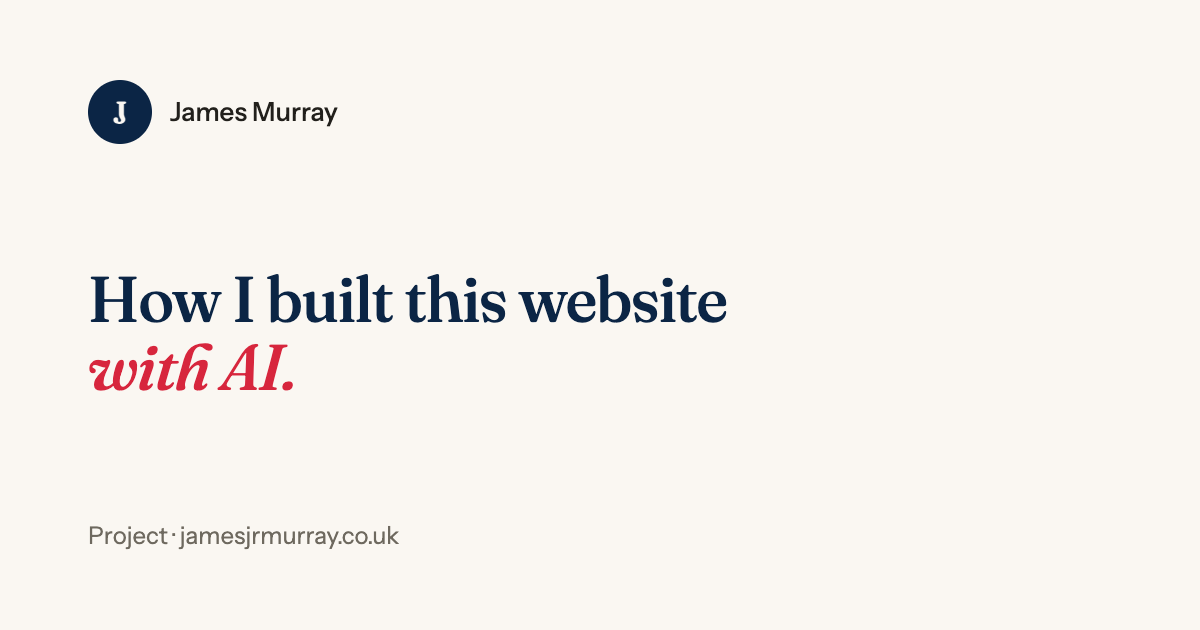
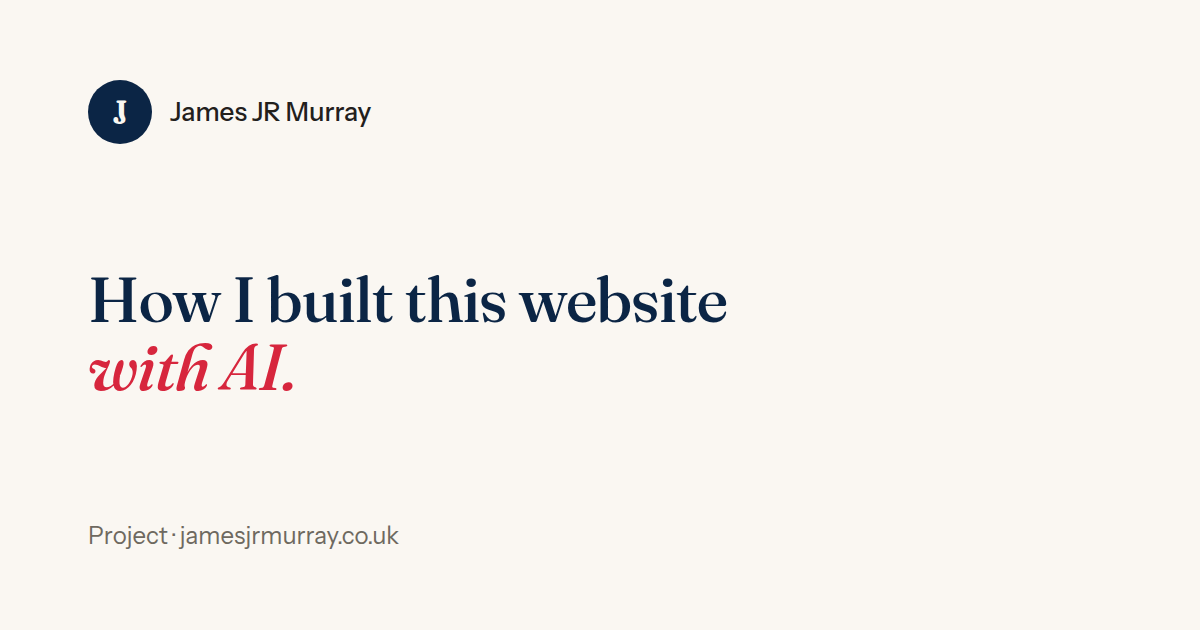
Add email contact, Speaking nav, and the Lead Product Manager name.
Pair a mailto link with each LinkedIn contact, point the main nav at the talks section as Speaking, and use James JR Murray plus Lead Product Manager in the hero, titles, and structured data.

diff --git a/src/content/site.ts b/src/content/site.ts
@@ -2,6 +2,28 @@ import type { Post, Project, Role, Stat, Talk, WorkItem } from './types';
 
 export const github = 'https://github.com/jamesjrmurray';
 
+// Full name in the hero, titles and structured data, so this James is not confused with another.
+export const name = 'James JR Murray';
+export const jobTitle = 'Lead Product Manager';
+export const emailAddress = 'jamesjrmurray@gmail.com';
+
+export const mailSubjects = {
+  speaking: 'Speaking enquiry',
+  role: 'Role enquiry',
+  general: 'General enquiry',
+} as const;
+
+export function mailto(subject: string): string {
+  return `mailto:${emailAddress}?subject=${encodeURIComponent(subject)}`;
+}
+
+// Public pages about this James: the Recruited article (Oct 2025, bylined Senior Product Owner
+// at Toyota Connected Europe) and his Data Decoded Manchester speaker profile.
+export const profiles = {
+  recruited: 'https://www.recruited.tech/blog/preparing-data-for-ai',
+  dataDecoded: 'https://datadecoded.com/mcr/speakers/james-murray/',
+};
+
 // Years of experience count from the first engineering role, so the number moves on by itself each year.
 export const CAREER_START = 2005;
 export const yearsExperience = String(new Date().getFullYear() - CAREER_START);
@@ -99,14 +121,14 @@ export const about = {
   headingAccent: 'systems second.',
   paragraphs: [
     "I’ve worked on both sides: the technology and the business. Engineering taught me what’s possible. Product thinking changes the question: not just “how do we build this?” but “should we?” and “will it hold up for the people who depend on it?”",
-    "Today I’m Area Product Owner at Holiday Extras, leading a team of product owners across one area of the business. Before that, I spent five years turning connected-vehicle data into AI products at Toyota Connected Europe.",
+    `Today I’m ${jobTitle} at Holiday Extras, leading a team of product owners across one area of the business. Before that, I spent five years turning connected-vehicle data into AI products at Toyota Connected Europe.`,
     'Outside work: parish councillor in Lenham, Kent; committee member of the Lenham Meadows Trust; charity fundraiser for Demelza Hospice Care for Children; sports fanatic; and wine taster with ambitions to become a connoisseur.',
   ],
 };
 
 export const career: { roles: Role[]; engineering: Role } = {
   roles: [
-    { dates: '2026–now', title: 'Area Product Owner', org: 'Holiday Extras', note: 'Leading a product area and its product owners' },
+    { dates: '2026–now', title: jobTitle, org: 'Holiday Extras', note: 'Leading a product area and its product owners' },
     { dates: '2021–2026', title: 'Senior Product Owner (Data)', org: 'Toyota Connected Europe', note: 'Petabyte-scale data platform; two AI products to production' },
     { dates: '2020–2021', title: 'E-commerce Product Owner', org: 'RS Components', note: 'Checkout across 31 markets; PSD2 payments' },
     { dates: '2019–2020', title: 'Senior Product Manager', org: 'Verv', note: 'IoT and ML predictive maintenance; blockchain energy trading' },

diff --git a/tests/e2e/seo.spec.ts b/tests/e2e/seo.spec.ts
@@ -4,12 +4,15 @@ import { stats, talks } from '../../src/content/site';
 test('homepage has canonical, Open Graph and Person data', async ({ page }) => {
   await page.goto('/');
   await expect(page.locator('link[rel="canonical"]')).toHaveAttribute('href', 'http://localhost:4400/');
-  await expect(page.locator('meta[property="og:title"]')).toHaveAttribute('content', /James Murray/);
+  await expect(page.locator('meta[property="og:site_name"]')).toHaveAttribute('content', 'James JR Murray');
+  await expect(page.locator('meta[property="og:title"]')).toHaveAttribute('content', /James JR Murray/);
   await expect(page.locator('meta[property="og:image"]')).toHaveAttribute('content', 'http://localhost:4400/og.png');
   const ld = JSON.parse(await page.locator('script[type="application/ld+json"]').innerText());
   expect(ld['@type']).toBe('ProfilePage');
   expect(ld.mainEntity['@type']).toBe('Person');
-  expect(ld.mainEntity.name).toBe('James Murray');
+  expect(ld.mainEntity.name).toBe('James JR Murray');
+  expect(ld.mainEntity.jobTitle).toBe('Lead Product Manager');
+  expect(ld.mainEntity.alternateName).toBe('James Murray');
   expect(ld.mainEntity.sameAs).toContain('https://www.linkedin.com/in/jamesjrmurray');
   expect(ld.mainEntity.sameAs).toContain('https://github.com/jamesjrmurray');
   expect(JSON.stringify(ld)).not.toMatch(/seeking|telephone|email/i);
@@ -24,7 +27,9 @@ test('llms.txt summarises the site as it is: every section and page, nothing tha
   const res = await request.get('/llms.txt');
   expect(res.status()).toBe(200);
   const body = await res.text();
-  expect(body).toMatch(/^# James Murray/);
+  expect(body).toMatch(/^# James JR Murray/);
+  expect(body).toContain('https://www.recruited.tech/blog/preparing-data-for-ai');
+  expect(body).toContain('https://datadecoded.com/mcr/speakers/james-murray/');
   expect(body).toContain('/work/toyota/');
   expect(body).toContain('/work/this-website/');
   expect(body).not.toMatch(/writing/i); // no posts yet, so no Writing section
@@ -74,7 +79,8 @@ test('case study page carries Article structured data authored by James', async 
   const ld = JSON.parse(await page.locator('script[type="application/ld+json"]').innerText());
   expect(ld['@type']).toBe('Article');
   expect(ld.headline).toBe('Building the data foundations for AI in connected vehicles');
-  expect(ld.author.name).toBe('James Murray');
+  expect(ld.author.name).toBe('James JR Murray');
+  expect(ld.author.jobTitle).toBe('Lead Product Manager');
 });
 
 test('each shareable page has its own social preview image', async ({ page, request }) => {

diff --git a/tests/e2e/talks.spec.ts b/tests/e2e/talks.spec.ts
@@ -15,10 +15,28 @@ test('talks: one card per talk, each with a loaded image and a link to the Linke
   }
 });
 
-test('talks: header links to the section', async ({ page }) => {
+test('speaking is in the main nav and opens the talks section', async ({ page }) => {
   await page.setViewportSize({ width: 1280, height: 900 });
   await page.goto('/');
-  await expect(page.getByRole('navigation', { name: 'Main' }).getByRole('link', { name: 'Talks' })).toHaveAttribute('href', '/#talks');
+  const link = page.getByRole('navigation', { name: 'Main' }).getByRole('link', { name: 'Speaking' });
+  await expect(link).toHaveAttribute('href', '/#talks');
+  await expect(page.locator('#talks')).toBeVisible();
+});
+
+test('speaking is in the phone menu', async ({ page }) => {
+  await page.setViewportSize({ width: 375, height: 812 });
+  await page.goto('/');
+  await page.getByRole('button', { name: 'Menu' }).click();
+  await expect(page.getByRole('navigation', { name: 'Main' }).getByRole('link', { name: 'Speaking' })).toBeVisible();
+});
+
+test('talks offer an invite, a speaking email, and the two public profiles', async ({ page }) => {
+  await page.goto('/');
+  const section = page.locator('#talks');
+  await expect(section.getByRole('link', { name: 'Invite me to speak' })).toHaveAttribute('href', 'https://www.linkedin.com/in/jamesjrmurray');
+  await expect(section.getByRole('link', { name: 'Email about speaking' })).toHaveAttribute('href', 'mailto:jamesjrmurray@gmail.com?subject=Speaking%20enquiry');
+  await expect(section.getByRole('link', { name: 'Recruited article' })).toHaveAttribute('href', 'https://www.recruited.tech/blog/preparing-data-for-ai');
+  await expect(section.getByRole('link', { name: 'Data Decoded speaker profile' })).toHaveAttribute('href', 'https://datadecoded.com/mcr/speakers/james-murray/');
 });
 
 test('talks: phone layout stacks cards with no sideways scroll', async ({ page }) => {

diff --git a/src/pages/llms.txt.ts b/src/pages/llms.txt.ts
@@ -1,5 +1,5 @@
 import type { APIRoute } from 'astro';
-import { github, hero, posts, projects, stats, talks } from '../content/site';
+import { github, hero, name, posts, profiles, projects, stats, talks } from '../content/site';
 import { latestPosts } from '../lib/posts';
 import { latestTalks } from '../lib/talks';
 import { thisWebsite } from '../content/this-website';
@@ -10,7 +10,7 @@ export const GET: APIRoute = ({ site }) => {
   // Sections listed in homepage order, and only when they have something in them.
   const sections = ['case study', 'selected work', projects.length && 'projects', latestPosts(posts).length && 'writing', latestTalks(talks).length && 'talks', 'about', 'career', 'contact'].filter(Boolean);
   const body = [
-    '# James Murray',
+    `# ${name}`,
     '',
     `> ${hero.summary}`,
     '',
@@ -28,6 +28,8 @@ export const GET: APIRoute = ({ site }) => {
     '## Elsewhere',
     '- [LinkedIn](https://www.linkedin.com/in/jamesjrmurray)',
     `- [GitHub](${github}): including the code for this site`,
+    `- [Recruited article](${profiles.recruited})`,
+    `- [Data Decoded speaker profile](${profiles.dataDecoded})`,
     '',
   ].join('\n');
   return new Response(body, { headers: { 'Content-Type': 'text/plain; charset=utf-8' } });

diff --git a/tests/unit/header.test.ts b/tests/unit/header.test.ts
@@ -14,10 +14,13 @@ describe('Header', () => {
     const html = await c.renderToString(Header, { props: { showWriting: true } });
     expect(html).toContain('href="/#writing"');
   });
-  it('shows the Talks link only when talks exist', async () => {
+  it('shows the Speaking link only when talks exist', async () => {
     const c = await AstroContainer.create();
     expect(await c.renderToString(Header, { props: { showWriting: false } })).not.toContain('/#talks');
-    expect(await c.renderToString(Header, { props: { showWriting: false, showTalks: true } })).toContain('href="/#talks"');
+    const html = await c.renderToString(Header, { props: { showWriting: false, showTalks: true } });
+    expect(html).toContain('href="/#talks"');
+    expect(html).toContain('>Speaking</a>');
+    expect(html).not.toContain('>Talks</a>');
   });
   it('shows the Projects link only when projects exist', async () => {
     const c = await AstroContainer.create();

diff --git a/tests/e2e/layout-review.spec.ts b/tests/e2e/layout-review.spec.ts
@@ -28,9 +28,11 @@ test('contact makes LinkedIn the clear next step', async ({ page }) => {
   const contact = page.locator('#contact');
   await expect(contact.getByText('The quickest way to reach me is a message on LinkedIn.')).toBeVisible();
   await expect(contact.getByRole('link', { name: 'Message me on LinkedIn' })).toHaveAttribute('href', 'https://www.linkedin.com/in/jamesjrmurray');
+  await expect(contact.getByRole('link', { name: 'Email me', exact: true })).toHaveAttribute('href', 'mailto:jamesjrmurray@gmail.com?subject=General%20enquiry');
 });
 
-test('the hero does not repeat the name under the header', async ({ page }) => {
+test('the hero names James JR Murray and keeps the role line', async ({ page }) => {
   await page.goto('/');
   await expect(page.locator('[data-section="hero"] p').first()).toHaveText('Product leader for AI and data');
+  await expect(page.getByRole('heading', { level: 1 })).toContainText('James JR Murray');
 });

diff --git a/tests/unit/content.test.ts b/tests/unit/content.test.ts
@@ -15,6 +15,16 @@ describe('site content', () => {
   it('never says the Direct Line figure is annual (unconfirmed)', () => {
     expect(JSON.stringify(site)).not.toMatch(/annual/i);
   });
+  it('uses the current job title and the full name', () => {
+    expect(site.jobTitle).toBe('Lead Product Manager');
+    expect(site.name).toBe('James JR Murray');
+    expect(site.career.roles[0].title).toBe(site.jobTitle);
+    expect(site.about.paragraphs.join('\n')).toContain('Lead Product Manager at Holiday Extras');
+    expect(JSON.stringify(site)).not.toContain('Area Product Owner');
+    expect(site.mailto('Speaking enquiry')).toBe('mailto:jamesjrmurray@gmail.com?subject=Speaking%20enquiry');
+    expect(site.profiles.recruited).toBe('https://www.recruited.tech/blog/preparing-data-for-ai');
+    expect(site.profiles.dataDecoded).toBe('https://datadecoded.com/mcr/speakers/james-murray/');
+  });
 });
 
 describe('toyota case study', () => {

diff --git a/tests/unit/contact-component.test.ts b/tests/unit/contact-component.test.ts
@@ -8,6 +8,8 @@ describe('Contact component', () => {
     const html = await c.renderToString(Contact, { props: { hasCv: false } });
     expect(html).not.toContain('<form');
     expect(html).toContain('linkedin.com/in/jamesjrmurray');
+    expect(html).toContain('mailto:jamesjrmurray@gmail.com?subject=General%20enquiry');
+    expect(html).toContain('>Email me</a>');
     expect(html).toMatch(/<a [^>]*href="https:\/\/github\.com\/jamesjrmurray"[^>]*data-track-location="contact"[^>]*>github\.com\/jamesjrmurray →<\/a>/);
   });
   it('shows the CV link only when the file exists', async () => {

diff --git a/src/lib/track.ts b/src/lib/track.ts
@@ -1,7 +1,7 @@
 // GA4 events. gtag exists only after the visitor accepts (see consent-ui.ts and ga.ts); until then,
 // and on sites without a GA ID, every call is a no-op and nothing leaves the browser.
 export const EVENTS = [
-  'cv_download', 'linkedin_click',
+  'cv_download', 'linkedin_click', 'email_click',
   'case_study_open', 'case_study_read', 'post_click', 'talk_click', 'project_open', 'github_click', 'link_click', 'button_click', 'nav_click', 'section_view', 'scroll_depth', 'page_not_found',
 ] as const;
 export type EventName = (typeof EVENTS)[number];

diff --git a/tests/unit/footer.test.ts b/tests/unit/footer.test.ts
@@ -8,6 +8,8 @@ describe('Footer', () => {
     const html = await c.renderToString(Footer);
     expect(html).toContain('James Murray');
     expect(html).toContain('linkedin.com/in/jamesjrmurray');
+    expect(html).toContain('mailto:jamesjrmurray@gmail.com?subject=General%20enquiry');
+    expect(html).toContain('>Email</a>');
     expect(html).toMatch(/<a [^>]*href="https:\/\/github\.com\/jamesjrmurray"[^>]*data-track="github_click"[^>]*data-track-location="footer"[^>]*>GitHub<\/a>/);
     expect(html).not.toContain('Lenham');
   });

diff --git a/scripts/og-card.html b/scripts/og-card.html
@@ -15,7 +15,7 @@
 </head>
 <body>
 <div class="wrap">
-  <div class="top"><div class="mono">J</div>James Murray</div>
+  <div class="top"><div class="mono">J</div>James JR Murray</div>
   <h1>Engineer’s instinct.<br><em>Product thinker’s questions.</em></h1>
   <div class="foot">Product leader for AI and data · jamesjrmurray.co.uk</div>
 </div>

diff --git a/tests/e2e/smoke.spec.ts b/tests/e2e/smoke.spec.ts
@@ -3,5 +3,5 @@ import { test, expect } from '@playwright/test';
 test('homepage responds with the site title', async ({ page }) => {
   const res = await page.goto('/');
   expect(res?.status()).toBe(200);
-  await expect(page).toHaveTitle(/James Murray/);
+  await expect(page).toHaveTitle(/James JR Murray/);
 });
